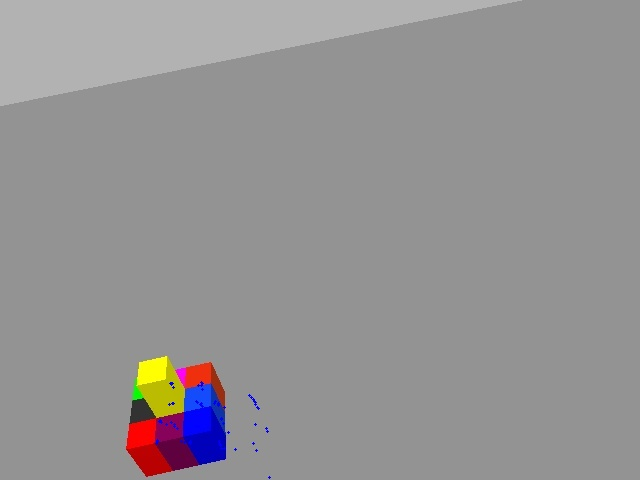
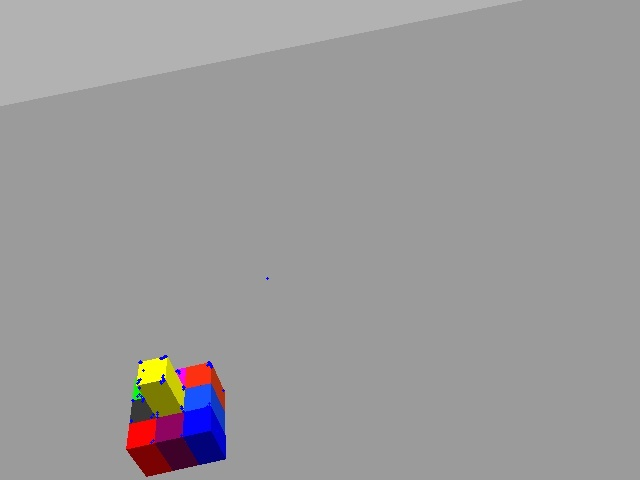
idk what's happening here but it seems to be getting better - 3d coordinate stuff

Changed region(s): [[0.1875, 0.7188, 0.375, 1.0], [0.375, 0.8125, 0.4062, 0.8438]]

diff --git a/src/generate_schematic/src/image_matching.py b/src/generate_schematic/src/image_matching.py
@@ -37,9 +37,13 @@ class ImageMatching:
         matches = bf.match(des1, des2)
         left_matches = [kp1[matches[i].queryIdx].pt for i in range(len(matches))]
         right_matches = [kp2[matches[i].trainIdx].pt for i in range(len(matches))]
-        print("image coordinate ", right_matches[0])
-        coordinates = ImageMatching.get_matched_3d_coordinates(left_matches, right_matches, R21, T21, camera1.intrinsic_matrix, camera2.intrinsic_matrix)
-        coordinates = np.reshape(coordinates, (len(coordinates), 3))
+        projMat1 = camera1.intrinsic_matrix.dot(g01[:3])
+        projMat2 = camera2.intrinsic_matrix.dot(g02[:3])
+        left_matches = np.array(left_matches, dtype = np.float32).T
+        right_matches = np.array(right_matches, dtype = np.float32).T
+        coordinates = cv2.triangulatePoints(projMat1, projMat2, left_matches, right_matches)
+        # coordinates = ImageMatching.get_matched_3d_coordinates(left_matches, right_matches, R21, T21, camera1.intrinsic_matrix, camera2.intrinsic_matrix)
+        # coordinates = np.reshape(coordinates, (len(coordinates), 3))
 
         return coordinates
 
@@ -91,15 +95,24 @@ class ImageMatching:
         g = CameraDTO.get_g(camera.pose)
         cam_coords = []
         for coord in coords:
-            new_coord =  np.matmul(np.linalg.inv(g), np.hstack((coord, [1])))[:3]
-            print("predicted 3d point in original camera frame", new_coord)
-            new_coord = [-new_coord[1], -new_coord[2] + .036, new_coord[0]]
-            print("intrinsic matrix", intrinsic)
-            cam_coord = intrinsic.dot(new_coord)[:3]
+            # coord = [2.06, -.06, 0]
+            new_coord = g.dot(coord)[:3]
+            # new_coord = coord
+            # print("predicted 3d point in original camera frame", new_coord)
+            # transformation = np.array([[0, -1, 0, 0],
+            #                             [0, 0, -1, 0.036],
+            #                             [1, 0, 0, 0],
+            #                             [0, 0, 0, 1]])
+            # new_trans = transformation.dot(np.linalg.inv(g))
+            # new_coord =  np.matmul(new_trans, np.hstack((coord, [1])))[:3]
+            # new_coord = [-new_coord[1], -new_coord[2] + .036, new_coord[0]]
+            # print("intrinsic matrix", intrinsic)
+            cam_coord = intrinsic.dot(new_coord)
             result = cam_coord[:2] / new_coord[2]
+            print(result)
             cam_coords.append(result)
-            print("predicted 3d point in camera frame", new_coord)
-            print("predicted 2d image projection", result)
+            # print("predicted 3d point in camera frame", new_coord)
+            # print("predicted 2d image projection", result)
         return cam_coords
 
     # Helpers--------------------------------------------------------------------------------------
@@ -208,6 +221,8 @@ class ImageMatching:
         left_intrinsic and right_intrinsic are both numpy arrays of size (3, 3) representing the
         3x3 intrinsic matrices of the left and right cameras respectively.
         """
+        # print("R", R)
+        # print("T", T)
         left_intrinsic_inv = np.linalg.inv(left_intrinsic)
         right_intrinsic_inv = np.linalg.inv(right_intrinsic)
         x_1 = np.reshape(x_1, (3, 1))
@@ -218,6 +233,7 @@ class ImageMatching:
         A = np.concatenate((-np.matmul(R, x_1), x_2), axis = 1)
         # Use least squares to solve for lambda1 and lambda2.
         lambda_1, lambda_2 = np.linalg.lstsq(A, T)[0]
+        print(lambda_1, lambda_2)
         x_1 = np.reshape(x_1, (3,))
         x_2 = np.reshape(x_2, (3,))
 

diff --git a/src/generate_schematic/src/generate_schematic.py b/src/generate_schematic/src/generate_schematic.py
@@ -20,14 +20,14 @@ def main():
     camera2, camera3 = CameraDTO(2), CameraDTO(3)
     coordinates = FeatureDetect.find_all_corners_3d(camera2, camera3)
 
-    g03 = CameraDTO.get_g(camera3.pose)
+    g30 = CameraDTO.get_g(camera3.pose)
     world_coordinates = np.hstack((coordinates, np.ones((len(coordinates), 1))))
-    world_coordinates = g03.dot(world_coordinates.T).T
+    world_coordinates = np.linalg.inv(g30).dot(world_coordinates).T
     world_coordinates = world_coordinates[:, :3]
 
     ImageMatching.scatter3d(world_coordinates)
 
-    img_coords = ImageMatching.project_3d_to_cam(coordinates, camera3)
+    img_coords = ImageMatching.project_3d_to_cam(coordinates.T, camera3)
     ImageMatching.draw_points(camera3.image, img_coords, save_name="projected_points_on_image.jpg")
 
     with open(OUTPUT_FILE, "w") as file:

diff --git a/src/global_constants/src/global_constants/camera.py b/src/global_constants/src/global_constants/camera.py
@@ -105,5 +105,8 @@ class CameraDTO:
 
         g = tr.quaternion_matrix([orient.x, orient.y, orient.z, orient.w])
         g[0:3, -1] = [pos.x, pos.y, pos.z]
-
-        return g
+        transformation = np.array([[0, -1, 0, 0],
+                                        [0, 0, -1, 0.036],
+                                        [1, 0, 0, 0],
+                                        [0, 0, 0, 1]])
+        return transformation.dot(np.linalg.inv(g))

diff --git a/src/generate_schematic/src/feature_detect.py b/src/generate_schematic/src/feature_detect.py
@@ -64,7 +64,6 @@ class FeatureDetect:
         """
         kp1, des1 = orb.detectAndCompute(camera1.image, None)
         kp2, des2 = orb.detectAndCompute(camera2.image, None)
-
         return ImageMatching.match_2_cameras_images(camera1, camera2, kp1, des1, kp2, des2, epipolar_threshold=epipolar_threshold)
 
     # Helpers--------------------------------------------------------------------------------------
